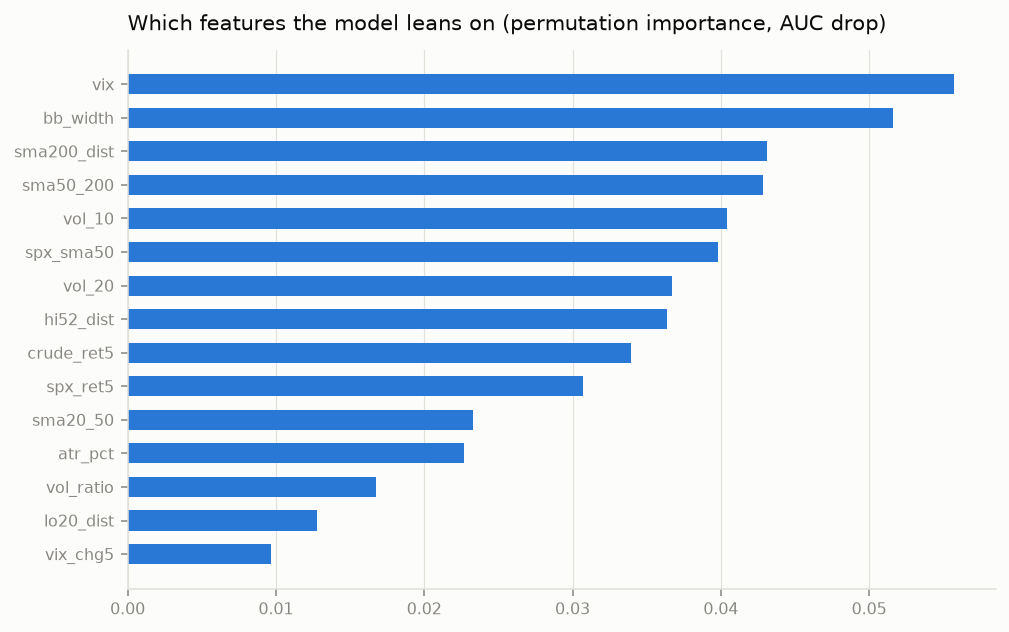
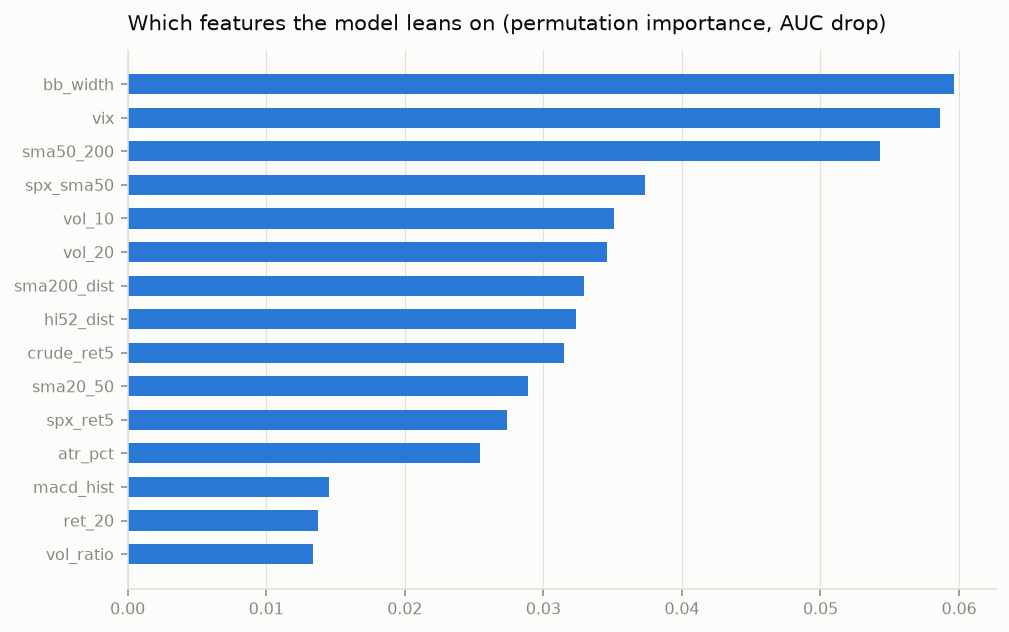
Publish as a GitHub Pages site; add Streamlit app
- _config.yml: Cayman theme, relative links, exclude code dirs
- report command also writes reports/latest.md and reports/index.md
- app.py + requirements.txt: optional Streamlit front end
- README: site and latest-report links

diff --git a/app.py b/app.py
@@ -1,0 +1,111 @@
+"""Streamlit front end for india-market-predictor.
+
+Run locally:   streamlit run app.py
+Host for free: share.streamlit.io -> New app -> this repo -> main file app.py
+"""
+from __future__ import annotations
+
+import datetime as dt
+import tempfile
+from pathlib import Path
+
+import pandas as pd
+import streamlit as st
+
+from market_predictor import backtest as bt
+from market_predictor import model as mdl
+from market_predictor.data import fetch, fetch_context
+from market_predictor.report import equity_chart, price_chart
+from market_predictor.scan import position_size, scan
+from market_predictor.universe import NIFTY50, display_name, to_yahoo
+
+st.set_page_config(page_title="India Market Predictor", page_icon="📈", layout="wide")
+st.title("India Market Predictor")
+st.caption(
+    "Educational tool. The probability is only as good as the walk-forward record printed next to it. "
+    "Not investment advice. Source and course: github.com/spawan1998/india-market-predictor"
+)
+
+
+@st.cache_data(ttl=6 * 3600, show_spinner="Downloading prices and running the walk-forward evaluation (about a minute)...")
+def evaluate(symbol: str, horizon: int, kind: str, day: str):
+    df = fetch(symbol)
+    ctx = fetch_context()
+    X, y, _ = mdl.prepare(df, ctx, horizon)
+    probs, res = mdl.walk_forward(X, y, kind=kind, horizon=horizon)
+    full = mdl.fit_full(X, y, kind=kind, horizon=horizon)
+    p = float(full.predict_proba(X.iloc[[-1]])[:, 1][0])
+    stats, curves = bt.compare(df["Close"], probs, 0.55, 0.05, 20.0)
+    return df, probs, mdl.result_dict(res), p, [s.__dict__ for s in stats], curves
+
+
+@st.cache_data(ttl=6 * 3600, show_spinner="Scanning NIFTY 50...")
+def run_scan(day: str):
+    return scan()
+
+
+with st.sidebar:
+    st.header("Settings")
+    choice = st.selectbox("Symbol", ["NIFTY50", "BANKNIFTY", "SENSEX"] + NIFTY50, index=0)
+    custom = st.text_input("or any NSE symbol / Yahoo ticker", "")
+    symbol = custom.strip() or choice
+    horizon = st.select_slider("Horizon (sessions)", [1, 2, 3, 5, 10, 20], value=5)
+    kind = st.radio("Model", ["gbm", "logit"], horizontal=True)
+    st.divider()
+    capital = st.number_input("Capital (Rs)", min_value=10_000, value=200_000, step=10_000)
+    risk = st.slider("Risk per trade (%)", 0.25, 2.0, 1.0, 0.25)
+
+today = dt.date.today().isoformat()
+tab_pred, tab_scan, tab_how = st.tabs(["Prediction", "NIFTY 50 scan", "How to read this"])
+
+with tab_pred:
+    try:
+        df, probs, res, p, stats, curves = evaluate(symbol, horizon, kind, today)
+    except Exception as e:  # noqa: BLE001
+        st.error(f"Could not load {symbol}: {e}")
+        st.stop()
+    name = display_name(to_yahoo(symbol))
+    sma200 = df["Close"].rolling(200).mean().iloc[-1]
+    above = df["Close"].iloc[-1] > sma200
+
+    c1, c2, c3, c4 = st.columns(4)
+    c1.metric(f"{name} close", f"{df['Close'].iloc[-1]:,.2f}", str(df.index[-1].date()))
+    c2.metric(f"P(up in {horizon} sessions)", f"{p:.3f}", mdl.describe_probability(p))
+    c3.metric("Walk-forward AUC", f"{res['auc']:.3f}", "0.50 = coin flip")
+    c4.metric("200-day SMA", f"{sma200:,.0f}", "price ABOVE" if above else "price BELOW")
+
+    if pd.isna(res["auc"]) or res["auc"] < 0.53:
+        st.warning("No proven edge on this symbol: out-of-sample AUC is about 0.5, so treat the probability as noise. "
+                   "Lean on the 200-day SMA regime line instead.")
+    else:
+        st.success("Small out-of-sample edge (AUC at or above 0.53). Still size by risk, not by conviction.")
+
+    st.write(
+        f"Out-of-sample record: accuracy {res['accuracy']:.3f}, balanced {res['balanced_accuracy']:.3f}, "
+        f"always-up baseline {res['baseline_always_up']:.3f}, {res['n_predictions']} predictions, {res['n_retrains']} retrains."
+    )
+
+    tmp = Path(tempfile.gettempdir())
+    st.image(str(price_chart(df, probs, name, tmp / f"{name}_price.png")))
+    st.subheader("Long/flat rules vs buy-and-hold, after 20 bps per switch")
+    tbl = pd.DataFrame(stats).set_index("name")[["cagr", "max_drawdown", "sharpe", "time_in_market", "n_trades", "hit_rate"]]
+    st.dataframe(tbl.style.format({"cagr": "{:+.1%}", "max_drawdown": "{:+.1%}", "sharpe": "{:.2f}",
+                                   "time_in_market": "{:.0%}", "hit_rate": "{:.1%}"}))
+    st.image(str(equity_chart(curves, name, tmp / f"{name}_equity.png")))
+
+with tab_scan:
+    sc = run_scan(today)
+    st.write(f"NIFTY 3-month return: {sc.attrs.get('nifty_ret_3m', float('nan')):+.1%}. "
+             "Score 0-5 sums trend, relative momentum, breakout proximity, RSI zone and volume.")
+    show = sc[["symbol", "close", "score", "rsi14", "ret_1m", "rel_3m", "vs_sma50", "vs_sma200", "from_20d_high", "atr_pct"]]
+    st.dataframe(show.style.format({"close": "{:,.1f}", "score": "{:.1f}", "rsi14": "{:.0f}", "ret_1m": "{:+.1%}",
+                                    "rel_3m": "{:+.1%}", "vs_sma50": "{:+.1%}", "vs_sma200": "{:+.1%}",
+                                    "from_20d_high": "{:+.1%}", "atr_pct": "{:.1%}"}), height=600)
+    st.subheader(f"Position size for the top 5 (capital Rs {capital:,.0f}, risk {risk}% per trade, stop 2 ATR)")
+    rows = [dict(symbol=r.symbol, **position_size(r.close, r.atr, capital, risk)) for _, r in sc.head(5).iterrows()]
+    st.dataframe(pd.DataFrame(rows).set_index("symbol"))
+    if sc.attrs.get("missing"):
+        st.caption("No data for: " + ", ".join(sc.attrs["missing"]))
+
+with tab_how:
+    st.markdown((Path(__file__).parent / "docs" / "09-how-the-predictor-works.md").read_text(encoding="utf-8"))

diff --git a/market_predictor/cli.py b/market_predictor/cli.py
@@ -207,7 +207,18 @@ def cmd_report(a):
         ("Disclaimer", DISCLAIMER),
     ]
     out = write_markdown(REPORT_DIR / f"{today}_{name}.md", sections)
+    if name == "NIFTY50":
+        write_markdown(REPORT_DIR / "latest.md", sections)
+        _write_report_index()
     console.print(f"report -> {out}")
+
+
+def _write_report_index():
+    """reports/index.md: link list of every dated report, newest first (for the website)."""
+    dated = sorted(REPORT_DIR.glob("20??-??-??_*.md"), reverse=True)
+    lines = ["# Daily reports", "", "[Latest report](./latest.md) is regenerated every weekday after the NSE close.", ""]
+    lines += [f"- [{p.stem.replace('_', ' ')}](./{p.name})" for p in dated]
+    (REPORT_DIR / "index.md").write_text("\n".join(lines) + "\n", encoding="utf-8")
 
 
 def main(argv=None):

diff --git a/reports/2026-10-09_NIFTY50.md b/reports/2026-10-09_NIFTY50.md
@@ -1,0 +1,51 @@
+## NIFTY50 daily read: 2026-10-09
+
+Close **22,520.45** (2026-10-09). Model P(up over next 5 sessions) = **0.576**: mild bullish lean.
+
+![price](./NIFTY50_price.png)
+
+## How much to trust it
+
+Walk-forward out-of-sample: accuracy 0.525, balanced 0.499, AUC 0.506, always-up baseline 0.567 over 3651 predictions. **No proven edge** (AUC ~0.5): treat the probability as noise. Close is below the 200-day SMA.
+
+| strategy | CAGR | max DD | Sharpe | switches |
+|---|---|---|---|---|
+| ml | -1.7% | -42.0% | -0.06 | 543 |
+| sma200 | +4.0% | -28.6% | 0.42 | 122 |
+| combo | -3.6% | -50.6% | -0.37 | 454 |
+| buy_and_hold | +10.7% | -38.4% | 0.73 | 1 |
+
+Costs 20.0 bps per switch; ml enters above 0.55, exits below 0.50.
+
+![equity](./NIFTY50_equity.png)
+
+![importance](./NIFTY50_importance.png)
+
+## NIFTY 50 swing scan: strongest
+
+| symbol     |   close |   score |   rsi14 |   ret_1m |   rel_3m |   from_20d_high |   atr_pct |
+|:-----------|--------:|--------:|--------:|---------:|---------:|----------------:|----------:|
+| KOTAKBANK  |  441    |     4.8 |      68 |      5.2 |     24   |            -1   |       2.2 |
+| TRENT      | 2918.2  |     4.5 |      61 |      4.5 |      7.5 |            -0.6 |       2.6 |
+| ETERNAL    |  323.45 |     4   |      49 |      0.6 |     18.6 |            -6.1 |       2.8 |
+| ADANIPORTS | 1761    |     3.7 |      51 |      3   |      3.3 |            -3.5 |       2.7 |
+| ICICIBANK  | 1355    |     3.4 |      50 |     -3.2 |      4.5 |            -2.7 |       1.6 |
+| AXISBANK   | 1259.1  |     3.2 |      56 |      1.1 |      2.1 |            -0.5 |       2.1 |
+| ITC        |  266    |     2.9 |      50 |      0.9 |      1.4 |            -1.9 |       2.4 |
+| TCS        | 2156    |     2.8 |      51 |     -4.4 |     11.7 |            -7.2 |       2.9 |
+| TECHM      | 1514.1  |     2.6 |      43 |     -2.9 |     11   |            -7.3 |       2.6 |
+| BHARTIARTL | 1805.1  |     2.4 |      47 |     -2.1 |      2.1 |            -4.7 |       1.9 |
+
+## NIFTY 50 swing scan: weakest
+
+| symbol     |   close |   score |   rsi14 |   ret_1m |   rel_3m |
+|:-----------|--------:|--------:|--------:|---------:|---------:|
+| POWERGRID  |  249.15 |       0 |      36 |     -6.2 |     -4.6 |
+| TATACONSUM |  955    |       0 |      38 |     -5.8 |     -7.1 |
+| TMPV       |  279.9  |       0 |      37 |     -8.7 |    -10.2 |
+| ASIANPAINT | 2339.1  |       0 |      36 |     -5.7 |     -5.7 |
+| HINDUNILVR | 1856.7  |       0 |      39 |     -6.2 |     -6.7 |
+
+## Disclaimer
+
+Educational tool. Out-of-sample accuracy on daily direction is typically 52-56%. A probability is a lean, not a forecast. Risk only what the position-size rule allows.

diff --git a/reports/latest.md b/reports/latest.md
@@ -1,0 +1,51 @@
+## NIFTY50 daily read: 2026-10-09
+
+Close **22,520.45** (2026-10-09). Model P(up over next 5 sessions) = **0.576**: mild bullish lean.
+
+![price](./NIFTY50_price.png)
+
+## How much to trust it
+
+Walk-forward out-of-sample: accuracy 0.525, balanced 0.499, AUC 0.506, always-up baseline 0.567 over 3651 predictions. **No proven edge** (AUC ~0.5): treat the probability as noise. Close is below the 200-day SMA.
+
+| strategy | CAGR | max DD | Sharpe | switches |
+|---|---|---|---|---|
+| ml | -1.7% | -42.0% | -0.06 | 543 |
+| sma200 | +4.0% | -28.6% | 0.42 | 122 |
+| combo | -3.6% | -50.6% | -0.37 | 454 |
+| buy_and_hold | +10.7% | -38.4% | 0.73 | 1 |
+
+Costs 20.0 bps per switch; ml enters above 0.55, exits below 0.50.
+
+![equity](./NIFTY50_equity.png)
+
+![importance](./NIFTY50_importance.png)
+
+## NIFTY 50 swing scan: strongest
+
+| symbol     |   close |   score |   rsi14 |   ret_1m |   rel_3m |   from_20d_high |   atr_pct |
+|:-----------|--------:|--------:|--------:|---------:|---------:|----------------:|----------:|
+| KOTAKBANK  |  441    |     4.8 |      68 |      5.2 |     24   |            -1   |       2.2 |
+| TRENT      | 2918.2  |     4.5 |      61 |      4.5 |      7.5 |            -0.6 |       2.6 |
+| ETERNAL    |  323.45 |     4   |      49 |      0.6 |     18.6 |            -6.1 |       2.8 |
+| ADANIPORTS | 1761    |     3.7 |      51 |      3   |      3.3 |            -3.5 |       2.7 |
+| ICICIBANK  | 1355    |     3.4 |      50 |     -3.2 |      4.5 |            -2.7 |       1.6 |
+| AXISBANK   | 1259.1  |     3.2 |      56 |      1.1 |      2.1 |            -0.5 |       2.1 |
+| ITC        |  266    |     2.9 |      50 |      0.9 |      1.4 |            -1.9 |       2.4 |
+| TCS        | 2156    |     2.8 |      51 |     -4.4 |     11.7 |            -7.2 |       2.9 |
+| TECHM      | 1514.1  |     2.6 |      43 |     -2.9 |     11   |            -7.3 |       2.6 |
+| BHARTIARTL | 1805.1  |     2.4 |      47 |     -2.1 |      2.1 |            -4.7 |       1.9 |
+
+## NIFTY 50 swing scan: weakest
+
+| symbol     |   close |   score |   rsi14 |   ret_1m |   rel_3m |
+|:-----------|--------:|--------:|--------:|---------:|---------:|
+| POWERGRID  |  249.15 |       0 |      36 |     -6.2 |     -4.6 |
+| TATACONSUM |  955    |       0 |      38 |     -5.8 |     -7.1 |
+| TMPV       |  279.9  |       0 |      37 |     -8.7 |    -10.2 |
+| ASIANPAINT | 2339.1  |       0 |      36 |     -5.7 |     -5.7 |
+| HINDUNILVR | 1856.7  |       0 |      39 |     -6.2 |     -6.7 |
+
+## Disclaimer
+
+Educational tool. Out-of-sample accuracy on daily direction is typically 52-56%. A probability is a lean, not a forecast. Risk only what the position-size rule allows.

diff --git a/README.md b/README.md
@@ -3,6 +3,10 @@
 Learn short-term trading on the Indian market the honest way, with a tool that
 shows you what is and is not predictable.
 
+**Website:** [spawan1998.github.io/india-market-predictor](https://spawan1998.github.io/india-market-predictor/)
+**Today's NIFTY read and scan:** [reports/latest](reports/latest.md) (updated every weekday after the close by GitHub Actions)
+**Course:** start at [docs/00-read-this-first](docs/00-read-this-first.md)
+
 > **Read [docs/00-read-this-first.md](docs/00-read-this-first.md) before anything else.**
 > SEBI's own studies show roughly 9 in 10 retail F&O traders lose money. This repo
 > exists to keep you out of that statistic, not to hand you a money printer.
@@ -37,6 +41,19 @@ imp report                                    # reports/<date>_NIFTY50.md + PNG 
 
 Data comes from Yahoo Finance (free, daily bars, 15-minute delayed quotes). The
 first run downloads history since 2008 and caches it under `data/cache/`.
+
+### Interactive app (optional)
+
+`app.py` is a small Streamlit front end over the same code: pick a symbol and
+horizon, get the probability, the walk-forward record, charts and the scan.
+
+```bash
+pip install -e ".[app]"
+streamlit run app.py
+```
+
+It can be hosted free on [Streamlit Community Cloud](https://share.streamlit.io):
+sign in with GitHub, pick this repo, main file `app.py`. Nothing else to configure.
 
 ## What the numbers mean
 

diff --git a/reports/index.md b/reports/index.md
@@ -1,0 +1,9 @@
+# Daily reports
+
+[Latest report](./latest.md) is regenerated every weekday after the NSE close.
+
+- [2026-10-09 NIFTY50](./2026-10-09_NIFTY50.md)
+- [2026-10-08 NIFTY50](./2026-10-08_NIFTY50.md)
+- [2026-10-07 NIFTY50](./2026-10-07_NIFTY50.md)
+- [2026-10-06 NIFTY50](./2026-10-06_NIFTY50.md)
+- [2026-10-05 NIFTY50](./2026-10-05_NIFTY50.md)
